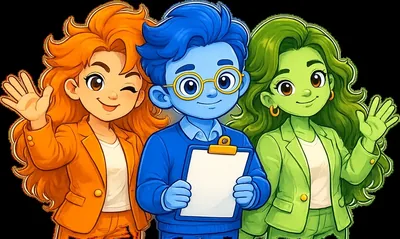
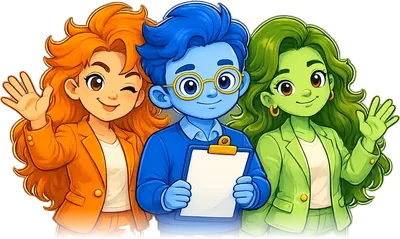
fix(wave414b): the responsive-image pipeline kept the pixels and threw the alpha away
scripts/wave414-responsive-images.py did `image.convert("RGB")` before every
resize. That DISCARDS the alpha channel rather than compositing it, so a source
whose transparent pixels carry RGB 0,0,0 comes out opaque black. The brand
lockup is one of those: logo-lockup-400.webp and -640.webp, and the reverse
pair, drew navy and orange artwork on a SOLID BLACK RECTANGLE in the header and
the footer of all 36 prerendered pages, at every width, and `sizes` meant every
device picked the 400w step so the original was never chosen. Found by the
rel414 re-check reading the shots.

The encode keeps RGBA where the source has it, and WebP carries alpha in its
lossy mode, so a variant is now a variant of its source rather than a flattened
copy of it. Thirteen variants of nine transparent sources are regenerated: both
lockups, the Zoopla ink mark, the solution hub and trio, the AI-team trio wave
and the capability band.

And the script now has an assertion for the class of defect rather than for the
one instance: any source carrying an alpha channel must produce variants that
carry one, checked off the files on disk in both the write mode and `--check`,
and the script exits non-zero otherwise. It catches all thirteen on the
pre-fix tree.

Paths: scripts/wave414-responsive-images.py,
public/images/brand/logo-lockup-400.webp, logo-lockup-640.webp,
logo-lockup-reverse-400.webp, logo-lockup-reverse-640.webp, zoopla-ink-400.webp,
[…]

Changed region(s): [[0.0, 0.0, 1.0, 1.0]]

diff --git a/scripts/wave414-responsive-images.py b/scripts/wave414-responsive-images.py
@@ -79,6 +79,46 @@ def variants_for(width: int) -> list[int]:
     return [step for step in STEPS if step < width]
 
 
+def has_alpha(image: Image.Image) -> bool:
+    """Whether this frame carries transparency at all.
+
+    A palette image can carry it in `info` rather than in its mode, so both
+    are read. This is the fact the whole alpha check below turns on: a source
+    with transparency whose variant has none is a picture that gained a
+    background nobody drew.
+    """
+    return image.mode in ("RGBA", "LA") or "transparency" in image.info
+
+
+def alpha_failures(sources) -> list[str]:
+    """Every variant on disk that lost the transparency its source has.
+
+    ⚠ THIS IS A GATE, NOT A DIAGNOSTIC, and it runs in both modes. The
+    defect it exists for shipped: two flattened steps of the brand lockup were
+    committed and served, and no assertion in the wave could see them because
+    they are a fact about pixels rather than about markup or about which files
+    exist. A variant is only a variant of its source if it still has the
+    source's channels.
+    """
+    out: list[str] = []
+    for source in sources:
+        with Image.open(source) as image:
+            if not has_alpha(image):
+                continue
+        for step in STEPS:
+            target = source.with_name(f"{source.stem}-{step}.webp")
+            if not target.exists():
+                continue
+            with Image.open(target) as variant:
+                if not has_alpha(variant):
+                    out.append(
+                        f"{target.relative_to(ROOT)} is {variant.mode} while "
+                        f"{source.relative_to(ROOT)} carries an alpha channel: the "
+                        f"transparency was flattened, so this draws on an opaque plate"
+                    )
+    return out
+
+
 MANIFEST = ROOT / "src" / "lib" / "image-variants.ts"
 
 MANIFEST_HEADER = """/**
@@ -164,6 +204,7 @@ def main() -> None:
     for source in sources:
         with Image.open(source) as image:
             width, height = image.size
+            source_has_alpha = has_alpha(image)
             if width < MIN_SOURCE_WIDTH:
                 skipped += 1
                 continue
@@ -189,7 +230,20 @@ def main() -> None:
                             f"{source.relative_to(ROOT)} has no variant at any of {steps}"
                         )
                     break
-                scaled = image.convert("RGB").resize(
+                # ⚠ RGBA WHERE THE SOURCE HAS IT, AND NEVER convert("RGB").
+                # `convert("RGB")` DISCARDS the alpha channel rather than
+                # compositing it, so a transparent pixel keeps whatever RGB it
+                # was carrying underneath, which in a keyed-out brand asset is
+                # 0,0,0. The brand lockup came out of that as navy and orange
+                # artwork on a SOLID BLACK RECTANGLE, in the header and the
+                # footer of every one of the 36 prerendered pages, at every
+                # width. Found by the rel414 re-check reading the shots.
+                # WebP carries alpha in its lossy mode, so an RGBA frame saved
+                # here is a transparent variant at the same quality; nothing
+                # is composited onto anything, because there is no ground here
+                # to composite onto and the page is the ground.
+                mode = "RGBA" if source_has_alpha else "RGB"
+                scaled = image.convert(mode).resize(
                     (step, max(1, round(height * step / width))), Image.LANCZOS
                 )
                 scaled.save(target, "WEBP", quality=QUALITY, method=6)
@@ -225,6 +279,28 @@ def main() -> None:
         f"no smaller than their source, {saved_bytes / 1024 / 1024:.1f}MB saved on "
         f"this run against serving the source at every step."
     )
+    # THE ALPHA CHECK, IN BOTH MODES. A write run has just encoded these, so
+    # it is proving its own output; a `--check` run is proving what is on disk,
+    # which is what the site serves.
+    flattened = alpha_failures(sources)
+    if flattened:
+        print(chr(10) + f"{len(flattened)} FLATTENED VARIANT(S):")
+        for name in flattened:
+            print(f"  - {name}")
+        raise SystemExit(
+            "Delete the files above and re-run "
+            "`python scripts/wave414-responsive-images.py`."
+        )
+    transparent = 0
+    for source in sources:
+        with Image.open(source) as image:
+            if has_alpha(image):
+                transparent += 1
+    print(
+        f"{transparent} referenced sources carry an alpha channel and every variant "
+        f"of them still does."
+    )
+
     if write_manifest(sources, check=args.check) and args.check:
         missing.append(f"{MANIFEST.relative_to(ROOT)} is out of date with the directory")
     if args.check:
